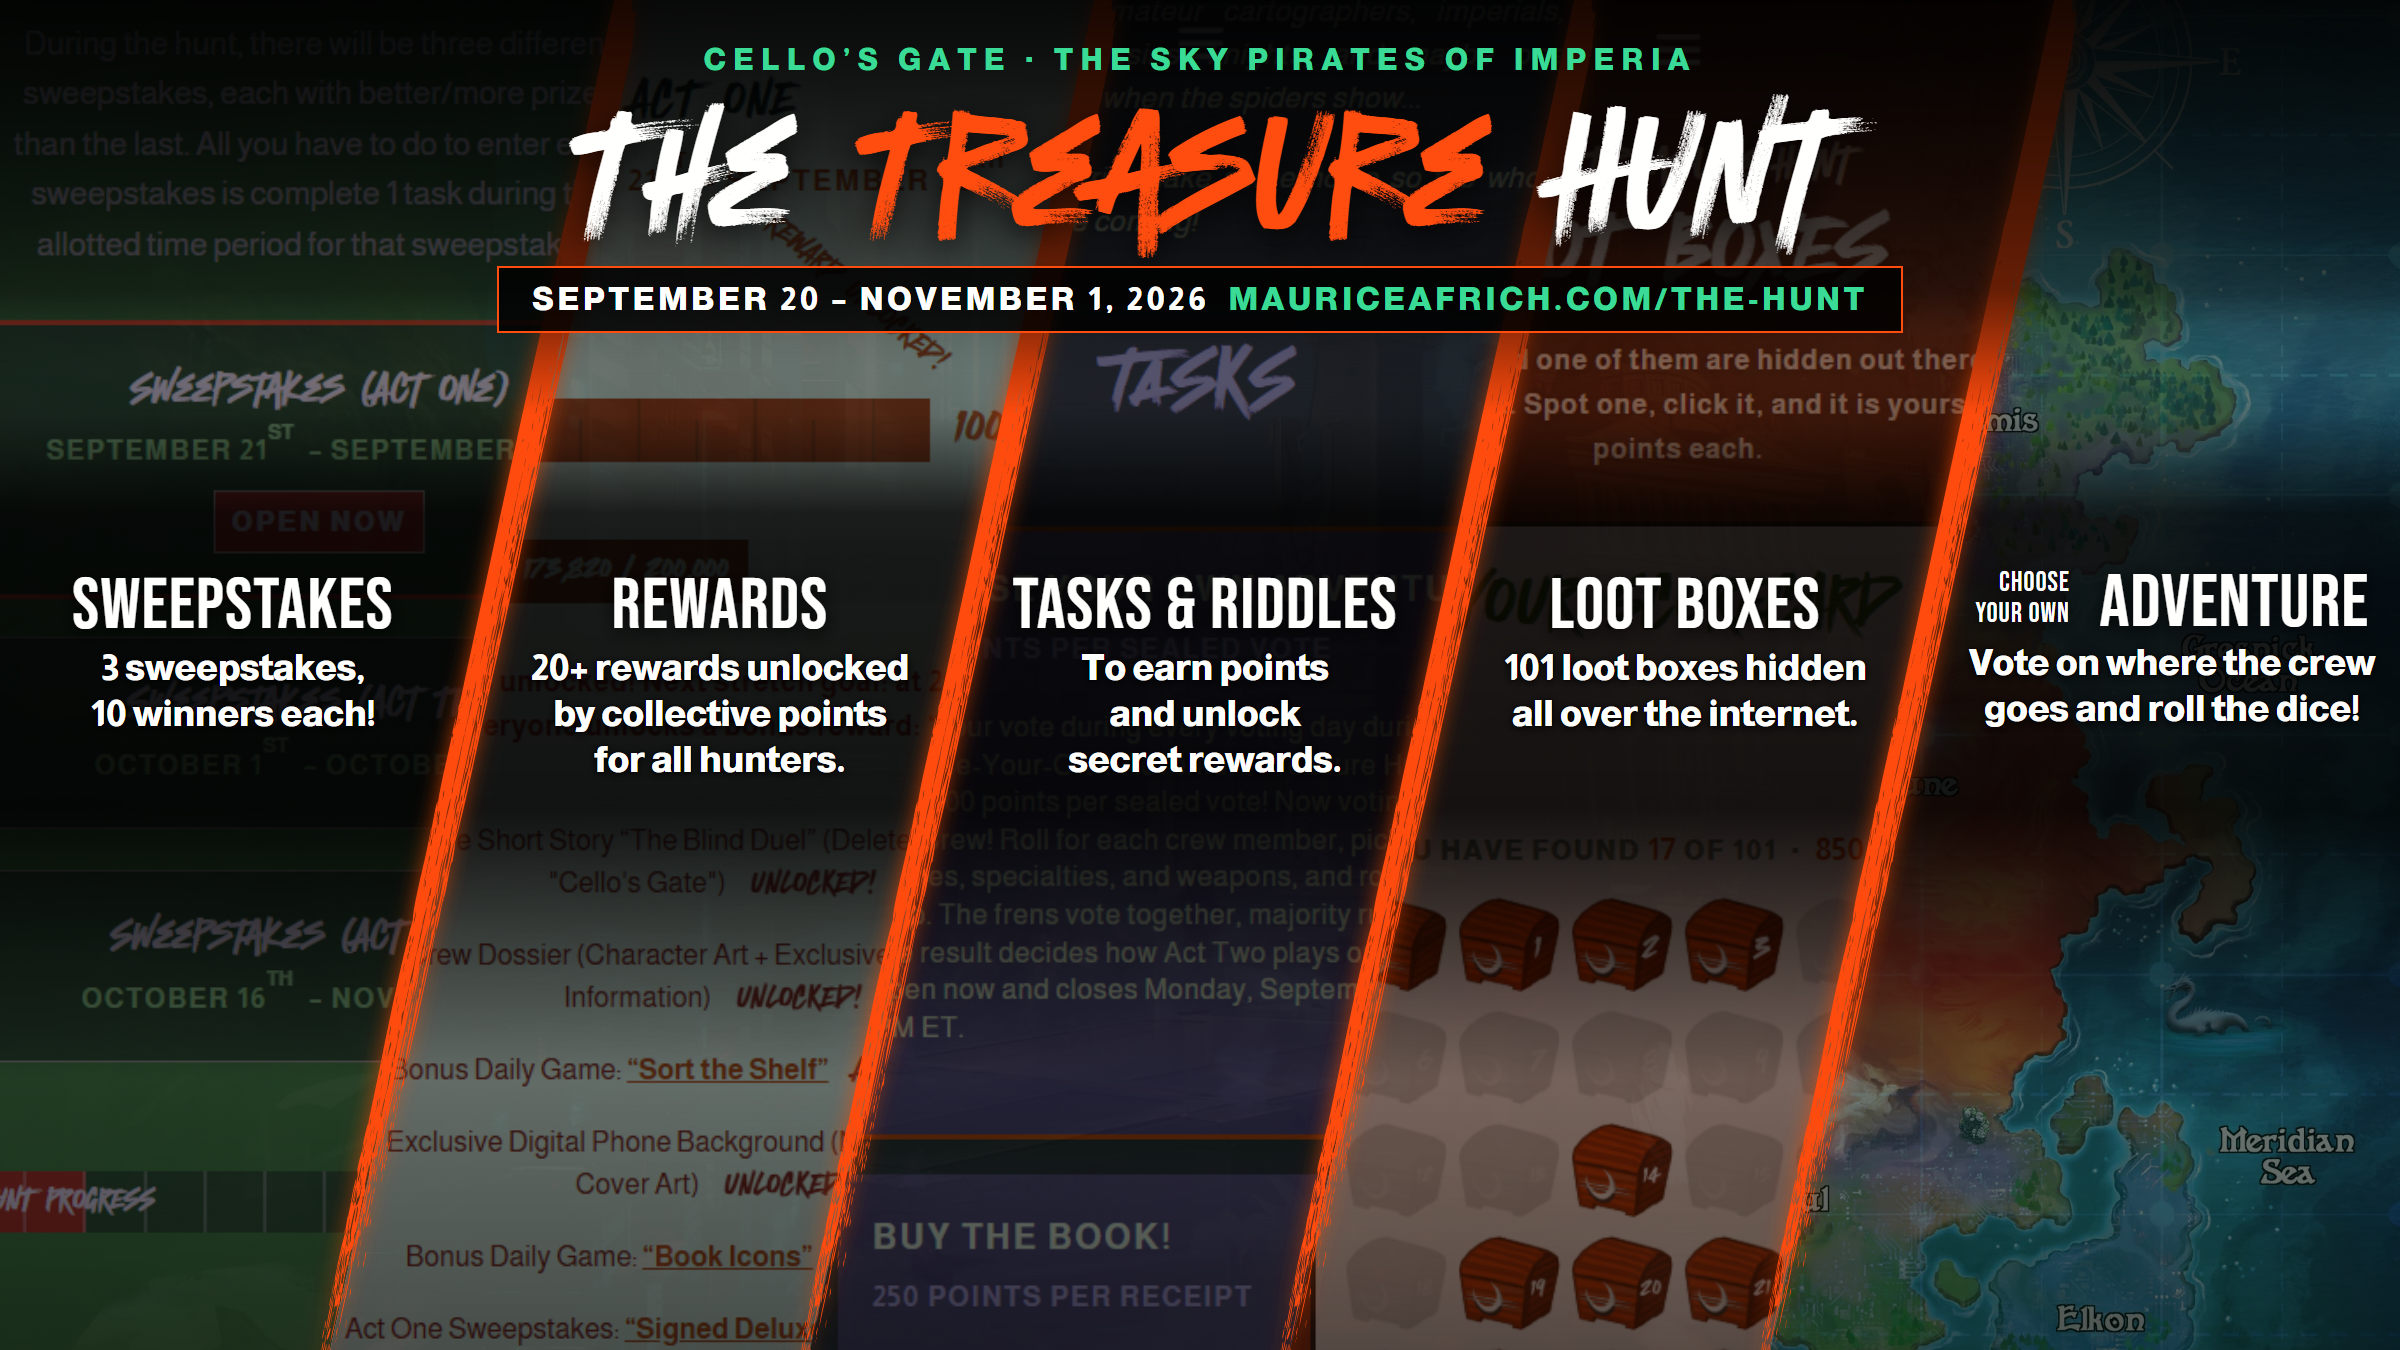
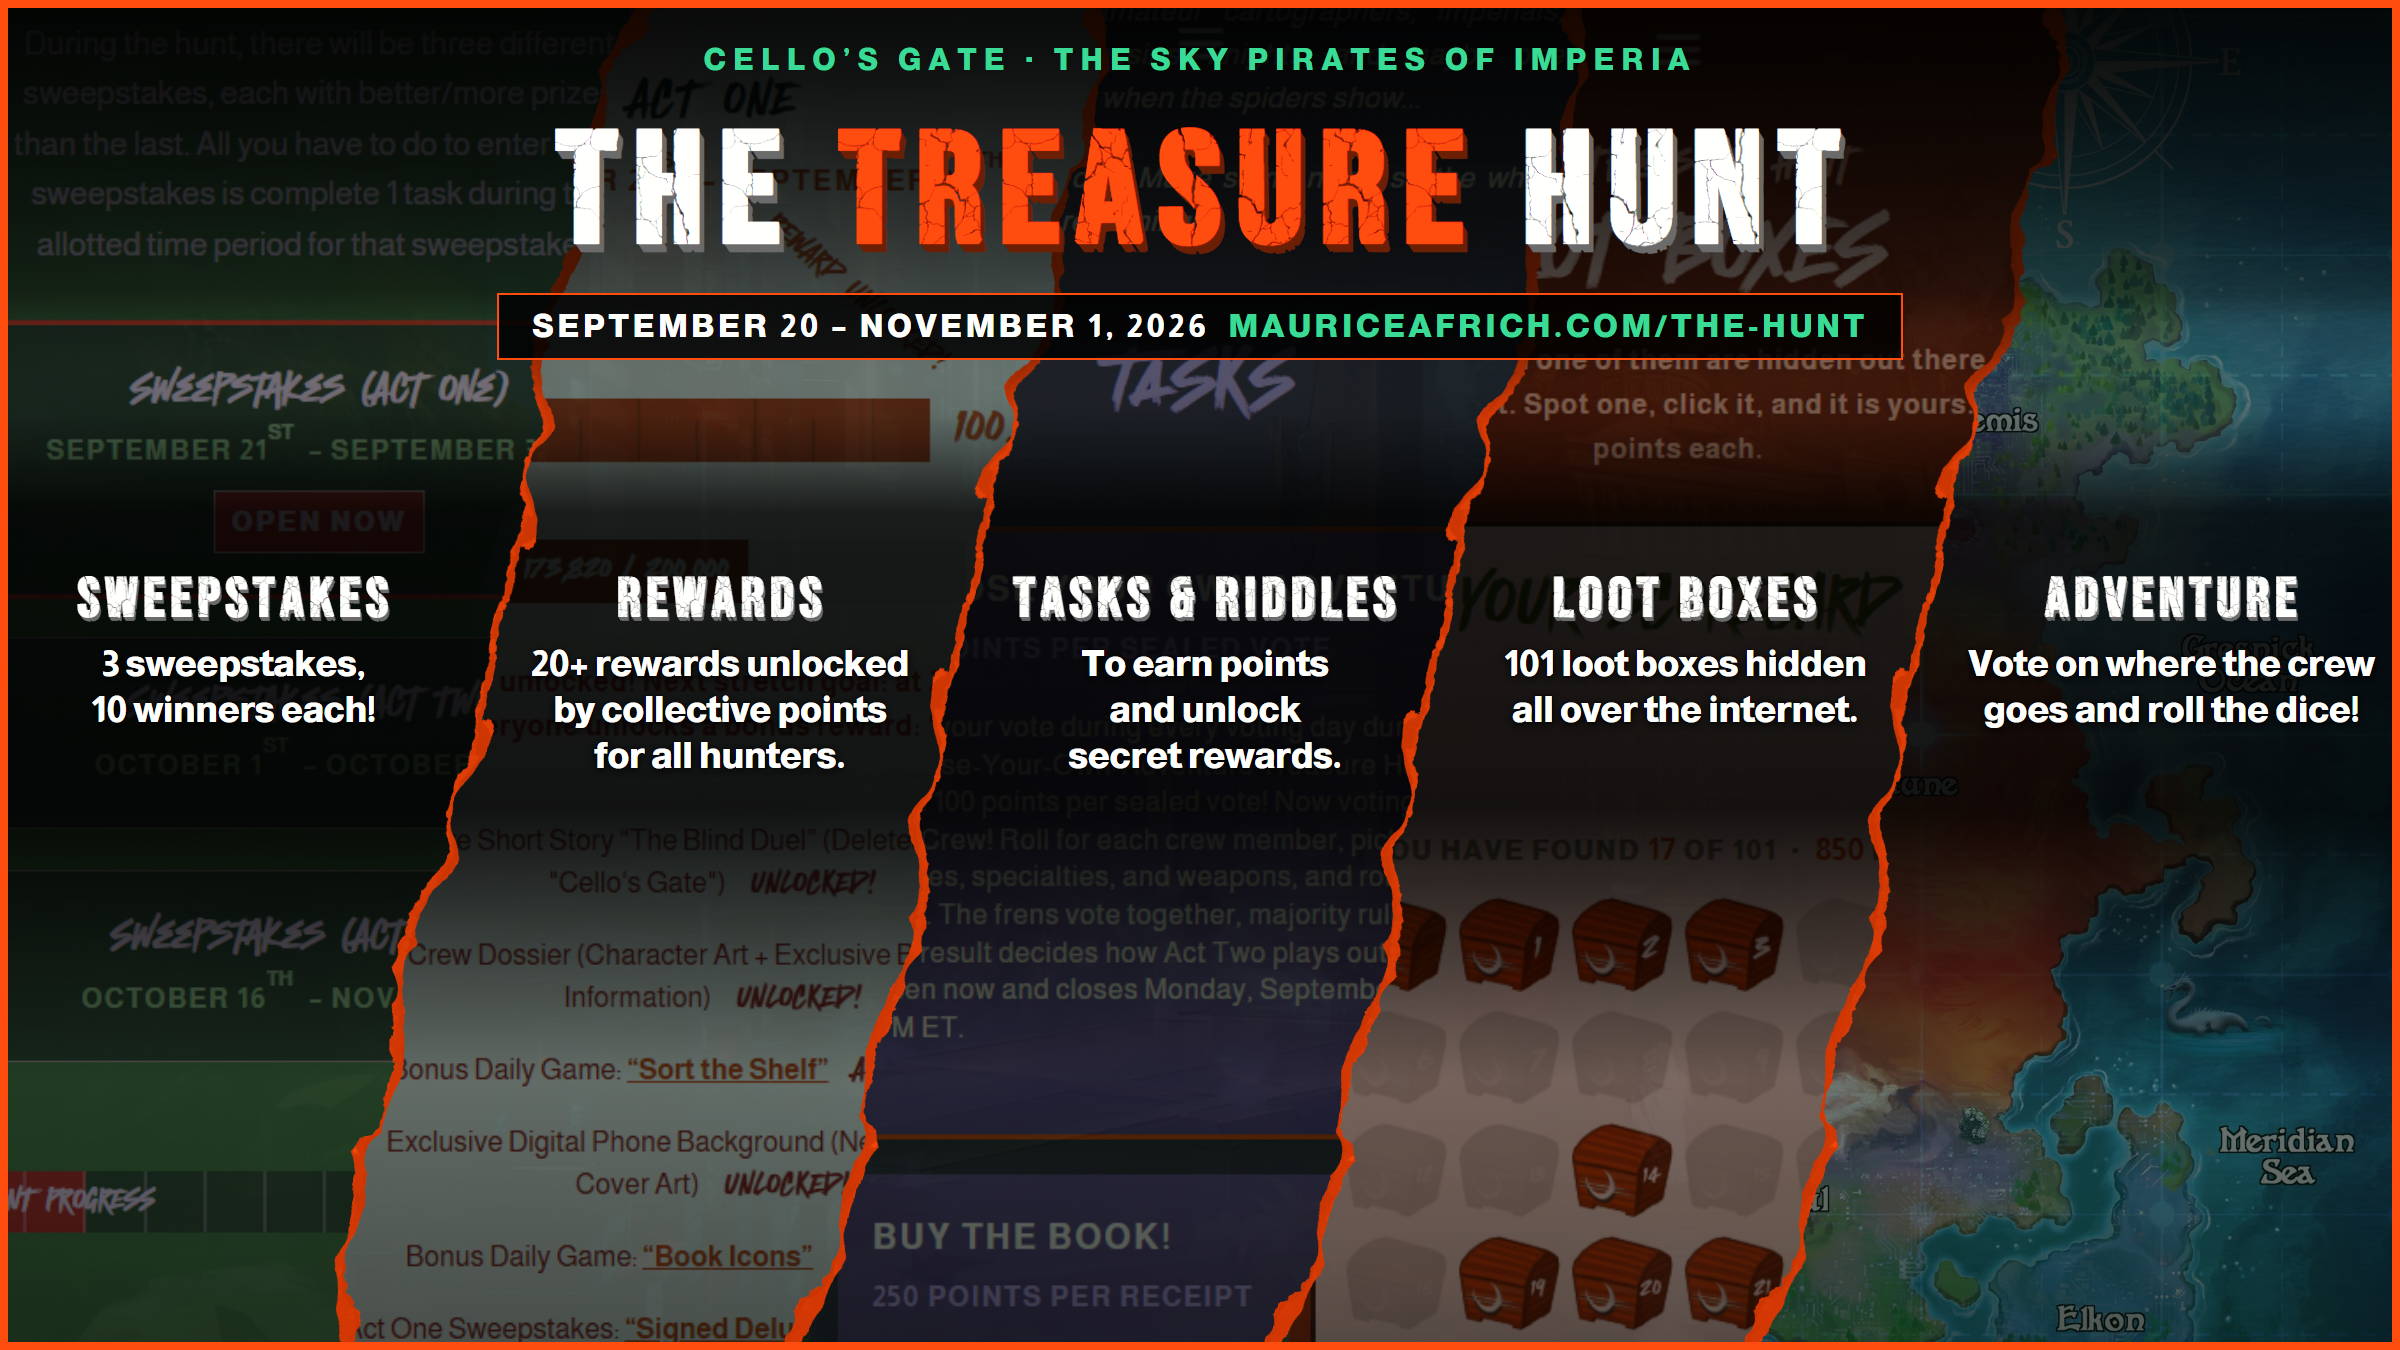
Press kit: hunt graphic in Cracked Imperia with crack seams and Scarlet outline; tagline without its box

Changed region(s): [[0.0, 0.0, 1.0, 1.0]]

diff --git a/pages/press.html b/pages/press.html
@@ -37,7 +37,7 @@
 #press .pp-img:last-child img{object-fit:cover}
 #press .pp-desc p{font-size:16px;line-height:1.65;color:#ede9dc;margin:0 0 16px}
 #press .pp-desc .pp-lead{font-weight:800;color:#fffffe}
-#press .pp-desc .pp-tag{font-family:'Atomic Marker',cursive;font-weight:400;font-size:clamp(22px,2.2vw,30px);letter-spacing:.03em;color:#fffffe;line-height:1.35;text-align:center;background:rgba(11,23,15,.9);border-left:4px solid #ff4c0f;padding:12px 18px}
+#press .pp-desc .pp-tag{font-family:'Atomic Marker',cursive;font-weight:400;font-size:clamp(22px,2.2vw,30px);letter-spacing:.03em;color:#fffffe;line-height:1.35;text-align:center;padding:12px 0}
 #press .pp-sub{font-family:'bebas-neue-pro','Bebas Neue Pro',sans-serif;font-weight:700;text-transform:uppercase;letter-spacing:.03em;font-size:clamp(30px,2.8vw,42px);line-height:1;color:#89fbcb;margin:40px 0 20px}
 #press .pp-praise{display:grid;grid-template-columns:repeat(auto-fill,minmax(min(100%,320px),1fr));gap:18px}
 #press .pp-praise figure{margin:0;padding:22px 24px;background:rgba(11,23,15,.9);border:1px solid rgba(255,255,254,.16);display:flex;flex-direction:column;justify-content:space-between;gap:14px}
@@ -151,7 +151,7 @@
       <p class="pp-asof">As of October 10, 2026.</p>
       <blockquote class="pp-quote"><p>“I spent my entire life waiting for someone to open a door for me, thinking that was something I was entitled to, for some reason. And then I realized that everyone with a key to a door worth opening didn’t know my name. They had no stake in my story. So I endeavored to change that.</p><p>I worked myself to the bone, hired two world-class editors, went to market on a six-month marketing strategy, and sold a lot of books. And then people started knowing my name. That’s when Simon Maverick came to me with an offer which I took to Merrilee Heifetz of Writers House, who took it to Saga Press, who waved me in with such ease, it was like there was never a door at all.</p><p>That’s why I built this treasure hunt. Because I thought it would be fun (which is a cornerstone of my brand), I thought it would help us sell a lot of books, and I thought, by the end of it, a lot more people would know my name. We’ll see, huh? If nothing else, I know we’re all having a pretty damn good time.”</p><cite>Maurice Africh, Author of “Cello’s Gate”</cite></blockquote>
       <dl class="pp-facts"><dt>Dates</dt><dd>September 20 to November 1, 2026. It ends two days before “Cello’s Gate” comes out.</dd><dt>Where</dt><dd>mauriceafrich.com/the-hunt</dd><dt>Who</dt><dd>Free and open to everyone, everywhere. The Treasure and sweepstakes prizes are for U.S. and UK residents, 18 and older.</dd><dt>Players</dt><dd>528 sky pirates from 14 countries: the U.S., the UK, Canada, Australia, India, Estonia, Germany, Ireland, Austria, Japan, Poland, Norway, Portugal, and Spain.</dd><dt>Traffic</dt><dd>Site traffic is up about 85 times: 18,997 visits since the hunt started, about 940 a day, compared with about 10 a day in September before it.</dd><dt>Play</dt><dd>Tasks, riddles, clues, seven daily bookish games (including Skyword, Blades &amp; Brass, and Crest Quest), 101 hidden loot boxes, and a fan fiction contest.</dd><dt>Story</dt><dd>Choose-your-own-adventure-style game with a voting and dice rolling system that determines the outcomes. The crew works together to explore the island and find the treasure. With guest appearances by Gary Furlong!</dd><dt>Crew</dt><dd>Every point also counts toward a shared crew total that unlocks rewards for all players. The crew has earned 501,970 points so far. Act One blew past its 40,000 goal five times over, unlocking 50 new loot boxes and the Golden Loot Box, and Act Two has already passed its 200,000 goal.</dd><dt>Acts</dt><dd>Three sweepstakes: Act One (September 21 to 30), Act Two (October 1 to 15), and Act Three (October 16 to November 1). Winners are announced the day after each act ends.</dd><dt>Treasure</dt><dd>The top three on the U.S. and UK leaderboards win The Treasure: signed editions, art prints, custom bookmarks, enamel pins, an advance audiobook, and more.</dd></dl>
-      <figure class="pp-gfx"><a href="https://africhmaurice.github.io/site/assets/press/hunt-overview.png" target="_blank" rel="noopener"><img src="https://africhmaurice.github.io/site/assets/press/hunt-overview.webp" width="2400" height="1350" alt="The Cello’s Gate Treasure Hunt: five panels split by brush slashes. Sweepstakes: 3 sweepstakes, 10 winners each. Rewards: 20+ rewards unlocked by collective points for all hunters. Tasks and Riddles: to earn points and unlock secret rewards. Loot Boxes: 101 loot boxes hidden all over the internet. Choose Your Own Adventure: vote on where the crew goes and roll the dice. " loading="lazy"></a><figcaption><a href="https://africhmaurice.github.io/site/assets/press/hunt-overview.png" target="_blank" rel="noopener">Download the full-size graphic ↓</a></figcaption></figure>
+      <figure class="pp-gfx"><a href="https://africhmaurice.github.io/site/assets/press/hunt-overview.png?v=1010" target="_blank" rel="noopener"><img src="https://africhmaurice.github.io/site/assets/press/hunt-overview.webp?v=1010" width="2400" height="1350" alt="The Cello’s Gate Treasure Hunt: five panels split by brush slashes. Sweepstakes: 3 sweepstakes, 10 winners each. Rewards: 20+ rewards unlocked by collective points for all hunters. Tasks and Riddles: to earn points and unlock secret rewards. Loot Boxes: 101 loot boxes hidden all over the internet. Choose Your Own Adventure: vote on where the crew goes and roll the dice. " loading="lazy"></a><figcaption><a href="https://africhmaurice.github.io/site/assets/press/hunt-overview.png" target="_blank" rel="noopener">Download the full-size graphic ↓</a></figcaption></figure>
       <div class="pp-cta"><a class="pp-btn" href="/the-hunt">See the hunt</a><a class="pp-btn" href="/leaderboard">Live leaderboard</a></div>
     </section>
 
